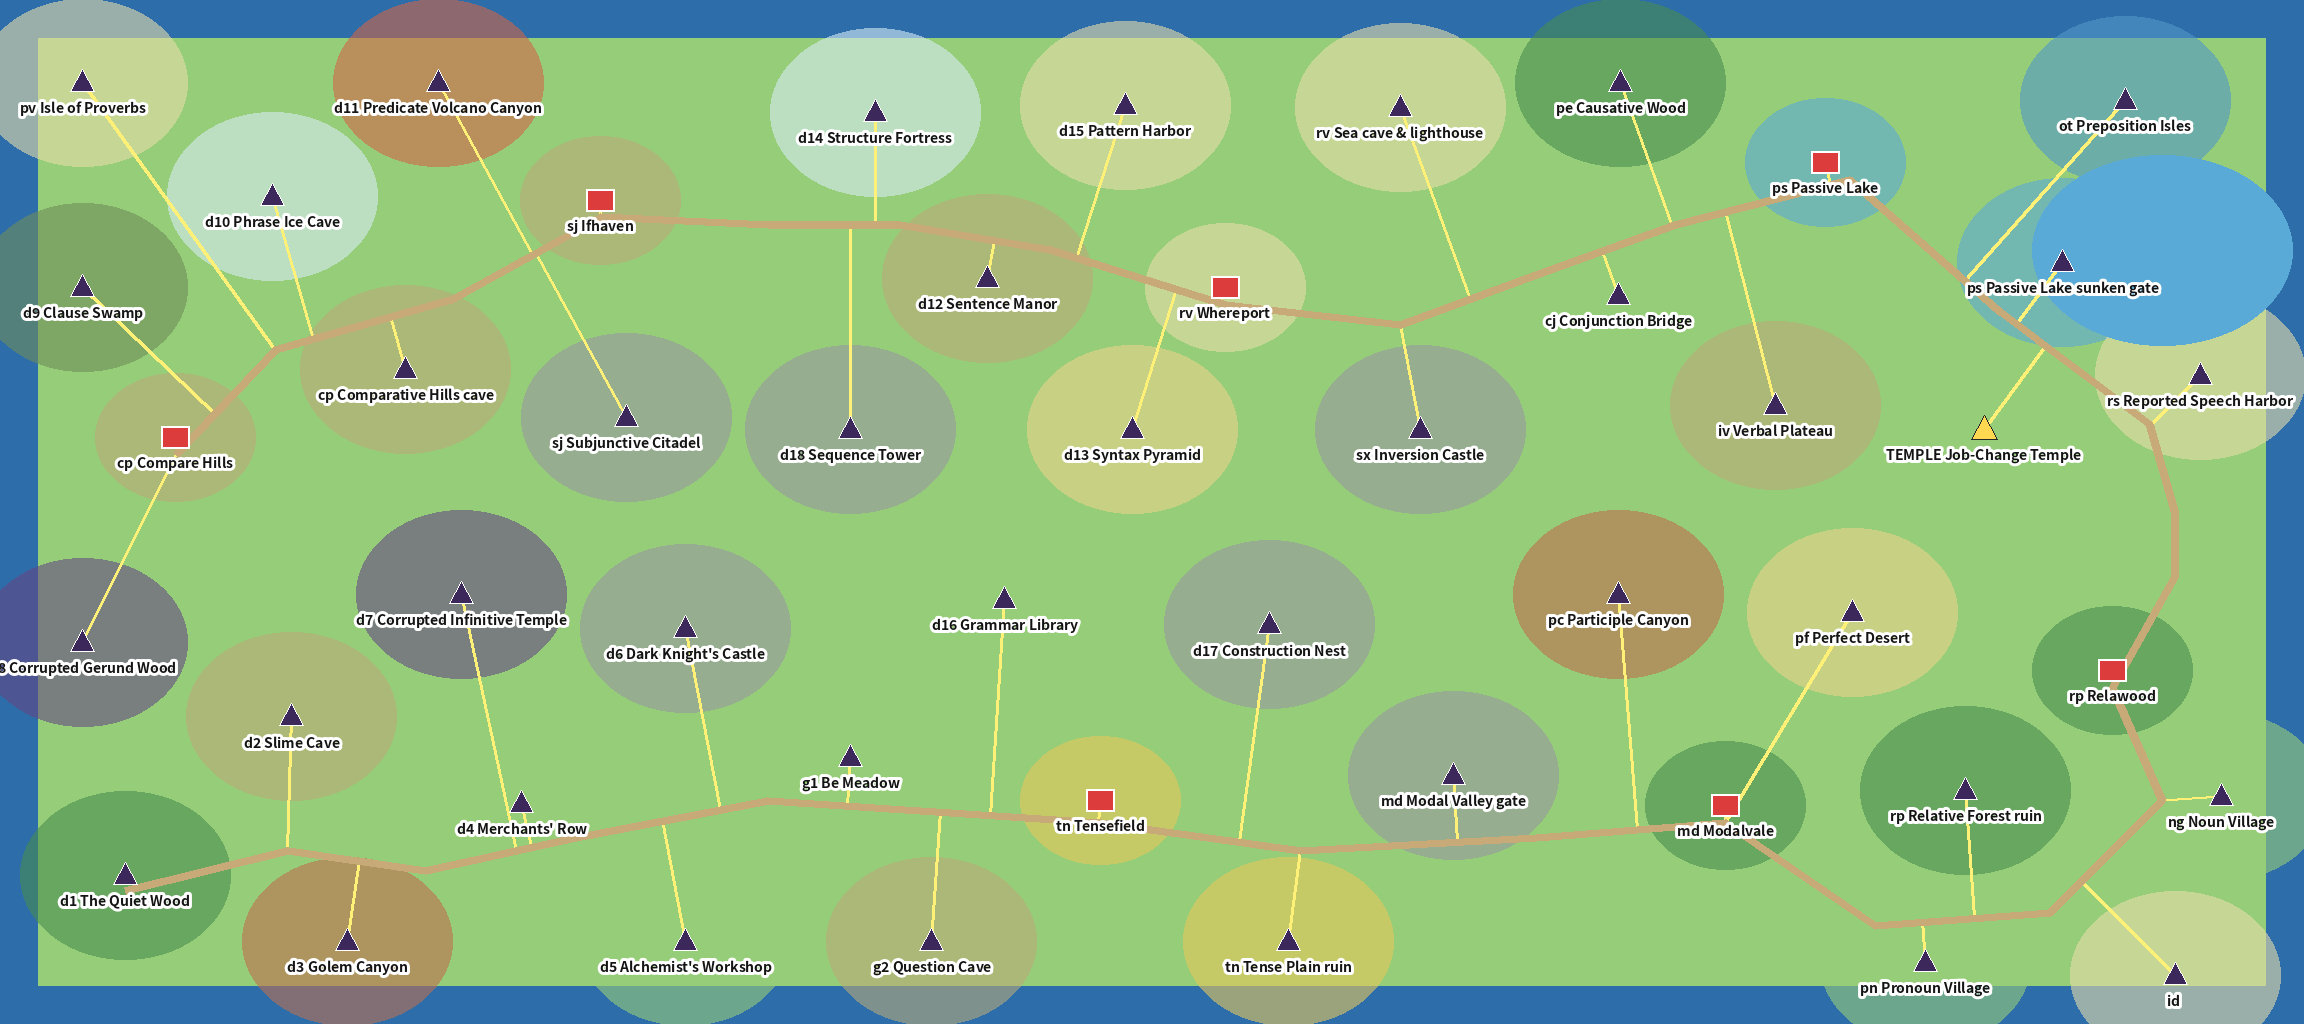
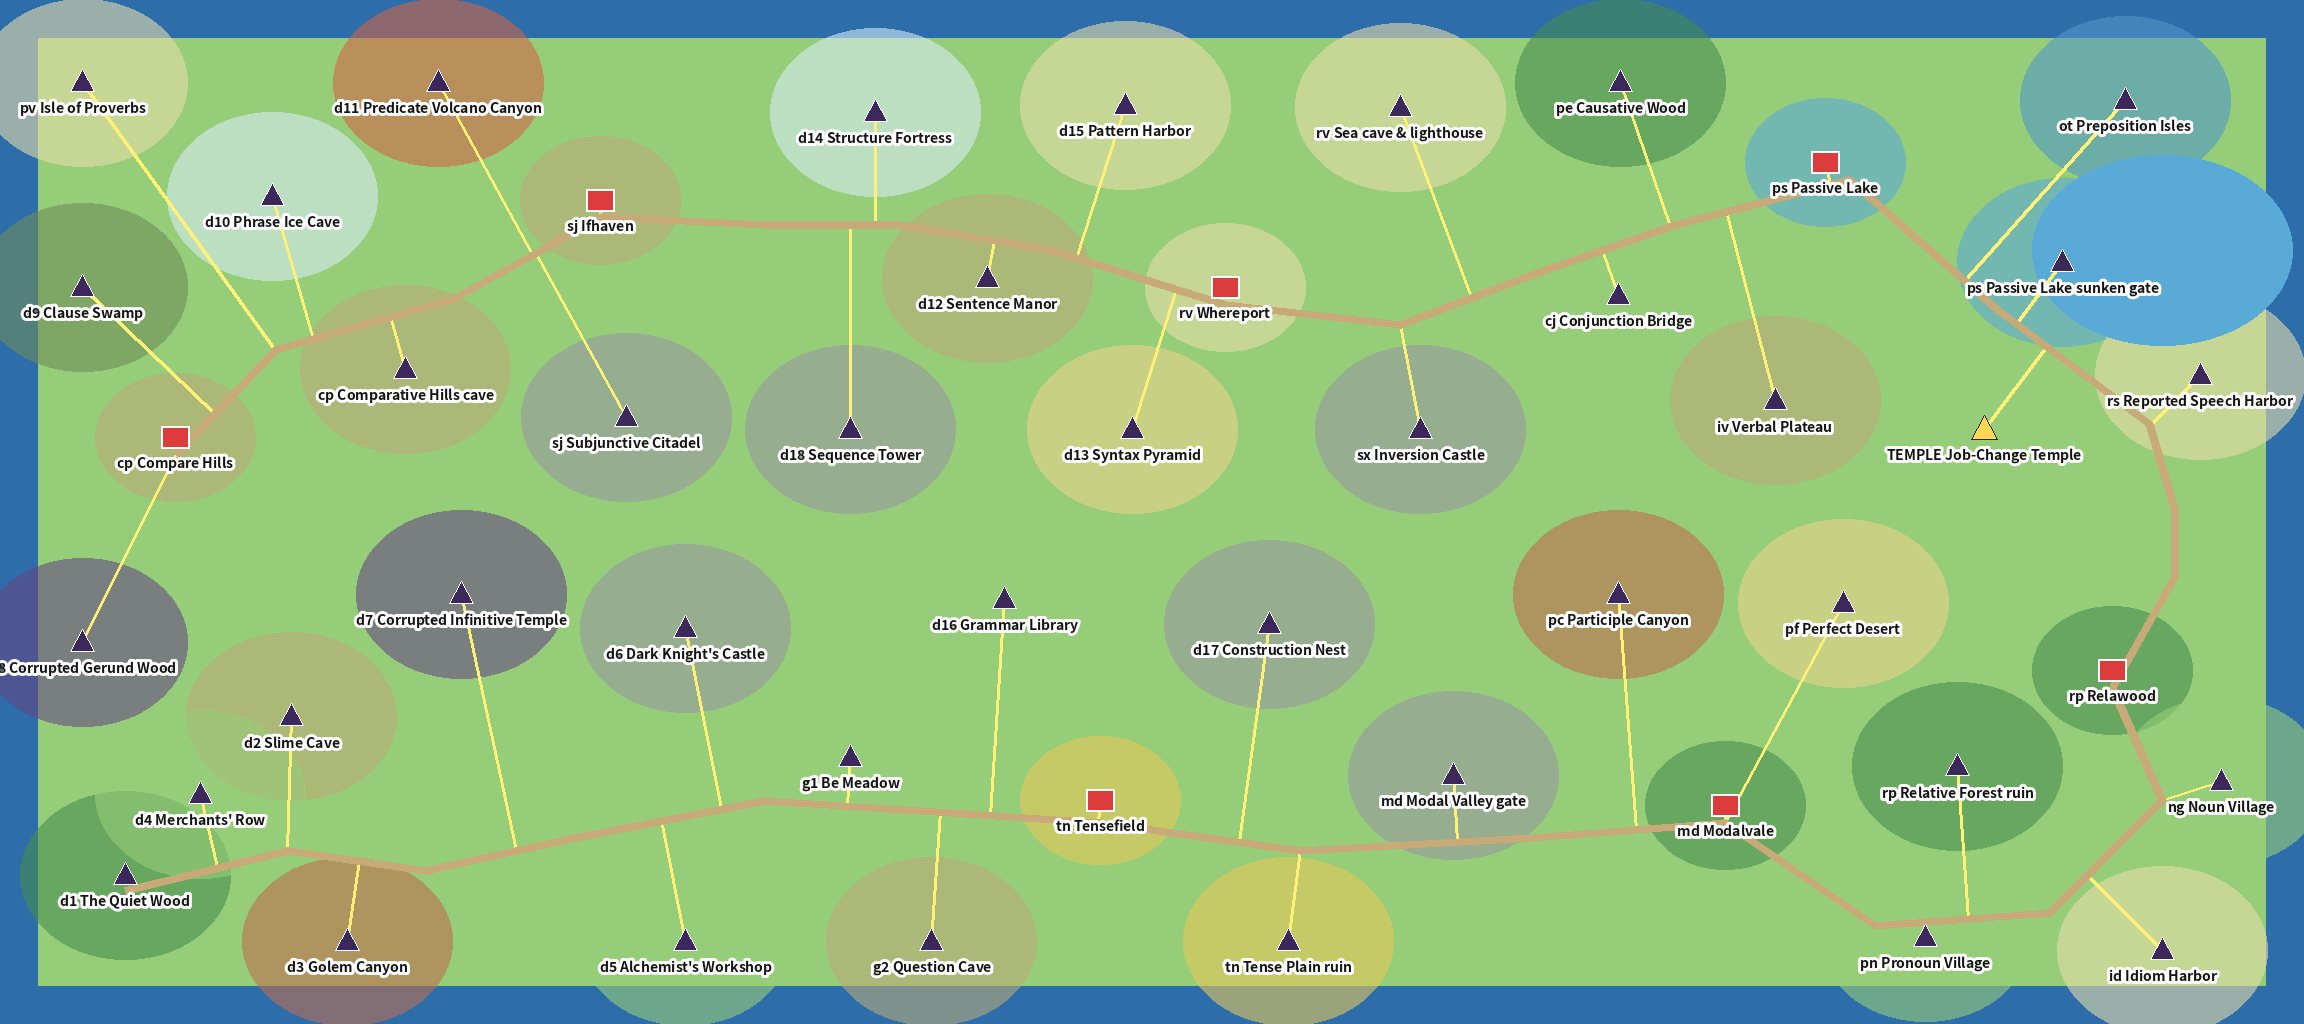
Brief: redraw SOUTH-WEST panel with Syntaxbury (d4) moved next to Quiet Wood and Slime Cave
Claude-Session: https://claude.ai/code/session_01GNQUwGwUrBApa17gJSkecA

diff --git a/worldmap-brief/2_SW.md b/worldmap-brief/2_SW.md
@@ -1,4 +1,7 @@
-# Panel 2: SOUTH-WEST
+# Panel 2: SOUTH-WEST (REDRAW: Syntaxbury d4 moved next to d1 and d2)
+
+REDRAW NOTE: this panel was drawn before. Draw it again from scratch with ONE change: the market town Syntaxbury (d4) now stands at 800,1130 (between the Quiet Wood d1 and the Slime Cave d2). The old d4 spot at 2087,1166 becomes plain open meadow with NO site. All other sites keep their positions. For d4 only, the rule 'leave at least 700x600 px open between sites' is relaxed: it must be about 450 px from d1 and d2, with a clear walkable meadow path to each. Keep the SOUTH-CENTER seam identical (main road crossing the RIGHT edge at y=1153).
+
 
 Layout guide image (use it as the placement reference, do NOT draw its text): https://raw.githubusercontent.com/skywalkerkdk-spec/grammar-saga-test/main/worldmap-brief/SW_guide.png
 
@@ -21,7 +24,7 @@ Technical rules:
 - Panel edges: only the roads listed below may touch an inner seam; at every inner seam the ground texture, grass color and lighting must be identical on both sides so the panels stitch seamlessly. Terrain features (hills, forest, rivers) may continue across seams. The outer edges of the continent (top of the top row, bottom of the bottom row, left of the left column, right of the right column) have a 150 px band of ocean or sheer cliff (impassable).
 
 PANEL: SOUTH-WEST (grid position: column 1 of 3, row 2 of 2; the whole continent is 3 x 2 panels = 9216x4096 px).
-Geography: Start of the journey. Outer ocean along the left and bottom edges. Gentle bright forest around d1 (far west), then hills (d2), red-rock canyon (d3), a market plain (d4) and the workshop (d5) along the south; the north half is a rocky plateau with the black castle d6, and the north-west corner is dark corrupted land (purple mist) around d7 and d8. The main road runs from d1 east along the south half and leaves through the right edge.
+Geography: Start of the journey. Outer ocean along the left and bottom edges. Gentle bright forest around d1 (far west), then hills (d2), red-rock canyon (d3), the walled market town Syntaxbury (d4) tucked between d1 and d2 on a gentle meadow, a red-rock canyon (d3) and the workshop (d5) along the south; the north half is a rocky plateau with the black castle d6, and the north-west corner is dark corrupted land (purple mist) around d7 and d8. The main road runs from d1 east along the south half and leaves through the right edge.
 Road crossings on this panel's seams (keep exactly): RIGHT edge: the main road crosses at y=1153. Edges not listed have NO road: keep them open grass/forest/rock continuing the terrain, with no sites within 250 px.
 
 Sites (center coordinates in px at 3072x2048):
@@ -30,7 +33,7 @@ Sites (center coordinates in px at 3072x2048):
 | d1 | The Quiet Wood / 고요한 숲 | DUNGEON ICON (~90x90 px) | 500,1452 | Sleepy forest clearing, mossy stone arch, player's starting area, gentle and bright |
 | d2 | Slime Cave / 슬라임 떼의 동굴 | DUNGEON ICON (~90x90 px) | 1166,819 | Cave mouth in a green hillside, glistening slime puddles |
 | d3 | Golem Canyon / 골렘의 협곡 | DUNGEON ICON (~90x90 px) | 1389,1718 | Narrow red-rock canyon; giant stone golem statue at its mouth |
-| d4 | Merchants' Row / 상인의 상점가 | DUNGEON ICON (~90x90 px) | 2087,1166 | Walled market quarter with striped awnings and stalls right beside the main road; one open gate toward the road |
+| d4 | Syntaxbury / 신택스베리 | TOWN ICON (~110x90 px) | 800,1130 | Small walled market TOWN of the Syntax Kingdom: 4-5 tiny roofs, a striped-awning market corner and a small fountain square behind a low stone wall, ONE open gate on the south side where a side path meets the main road. It sits on a bright meadow between the Quiet Wood (d1) and the Slime Cave (d2), very close to both (about 450 px away), so a beginner can walk from the starting forest to the town and on to the cave. |
 | d5 | Alchemist's Workshop / 연금술사의 공방 | DUNGEON ICON (~90x90 px) | 2742,1718 | Tall crooked stone tower with colorful smoking chimneys and glass domes (workshop) |
 | d6 | Dark Knight's Castle / 다크나이트성 | DUNGEON ICON (~90x90 px) | 2742,466 | Black-stone castle on a rocky plateau, drawbridge gate facing SOUTH toward the main road, ominous (locked at first) |
 | d7 | Corrupted Infinitive Temple / 타락한 인피니티브 신전 | DUNGEON ICON (~90x90 px) | 1845,330 | Ruined temple, broken columns, purple corruption mist (locked at first) |
